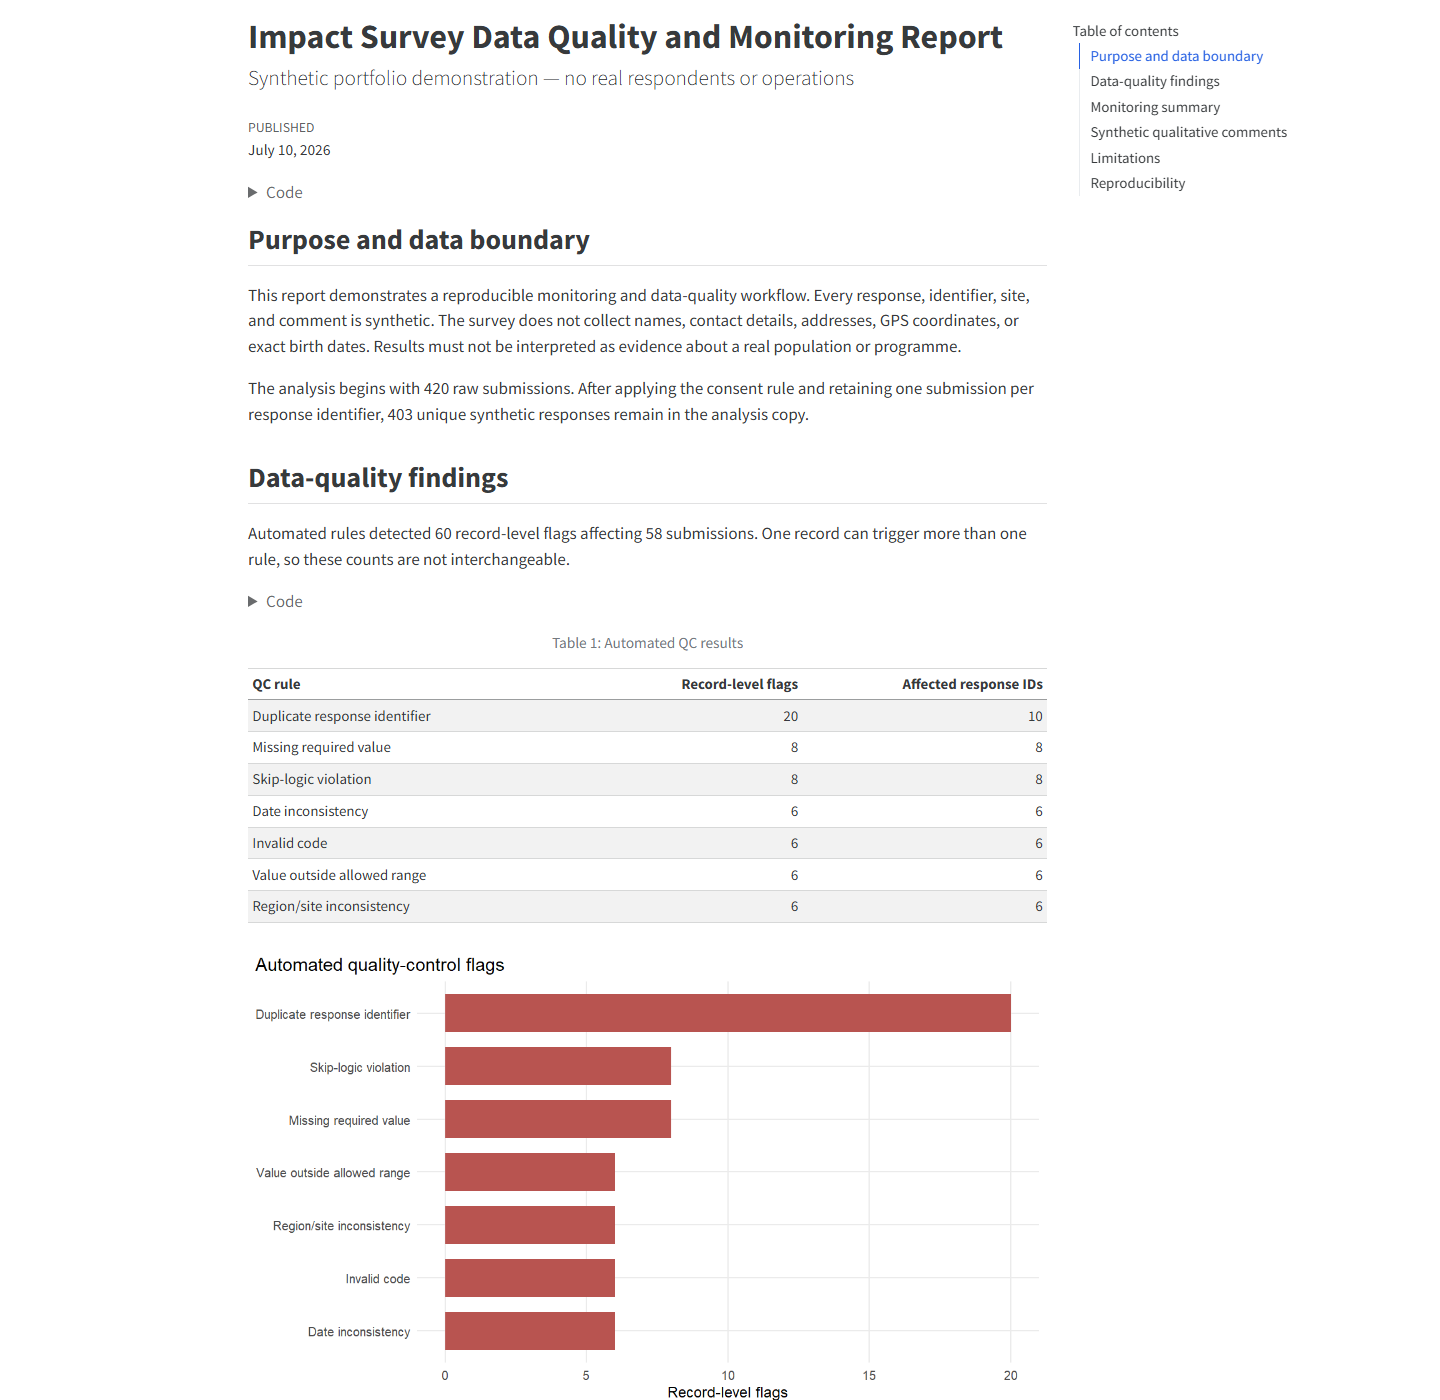
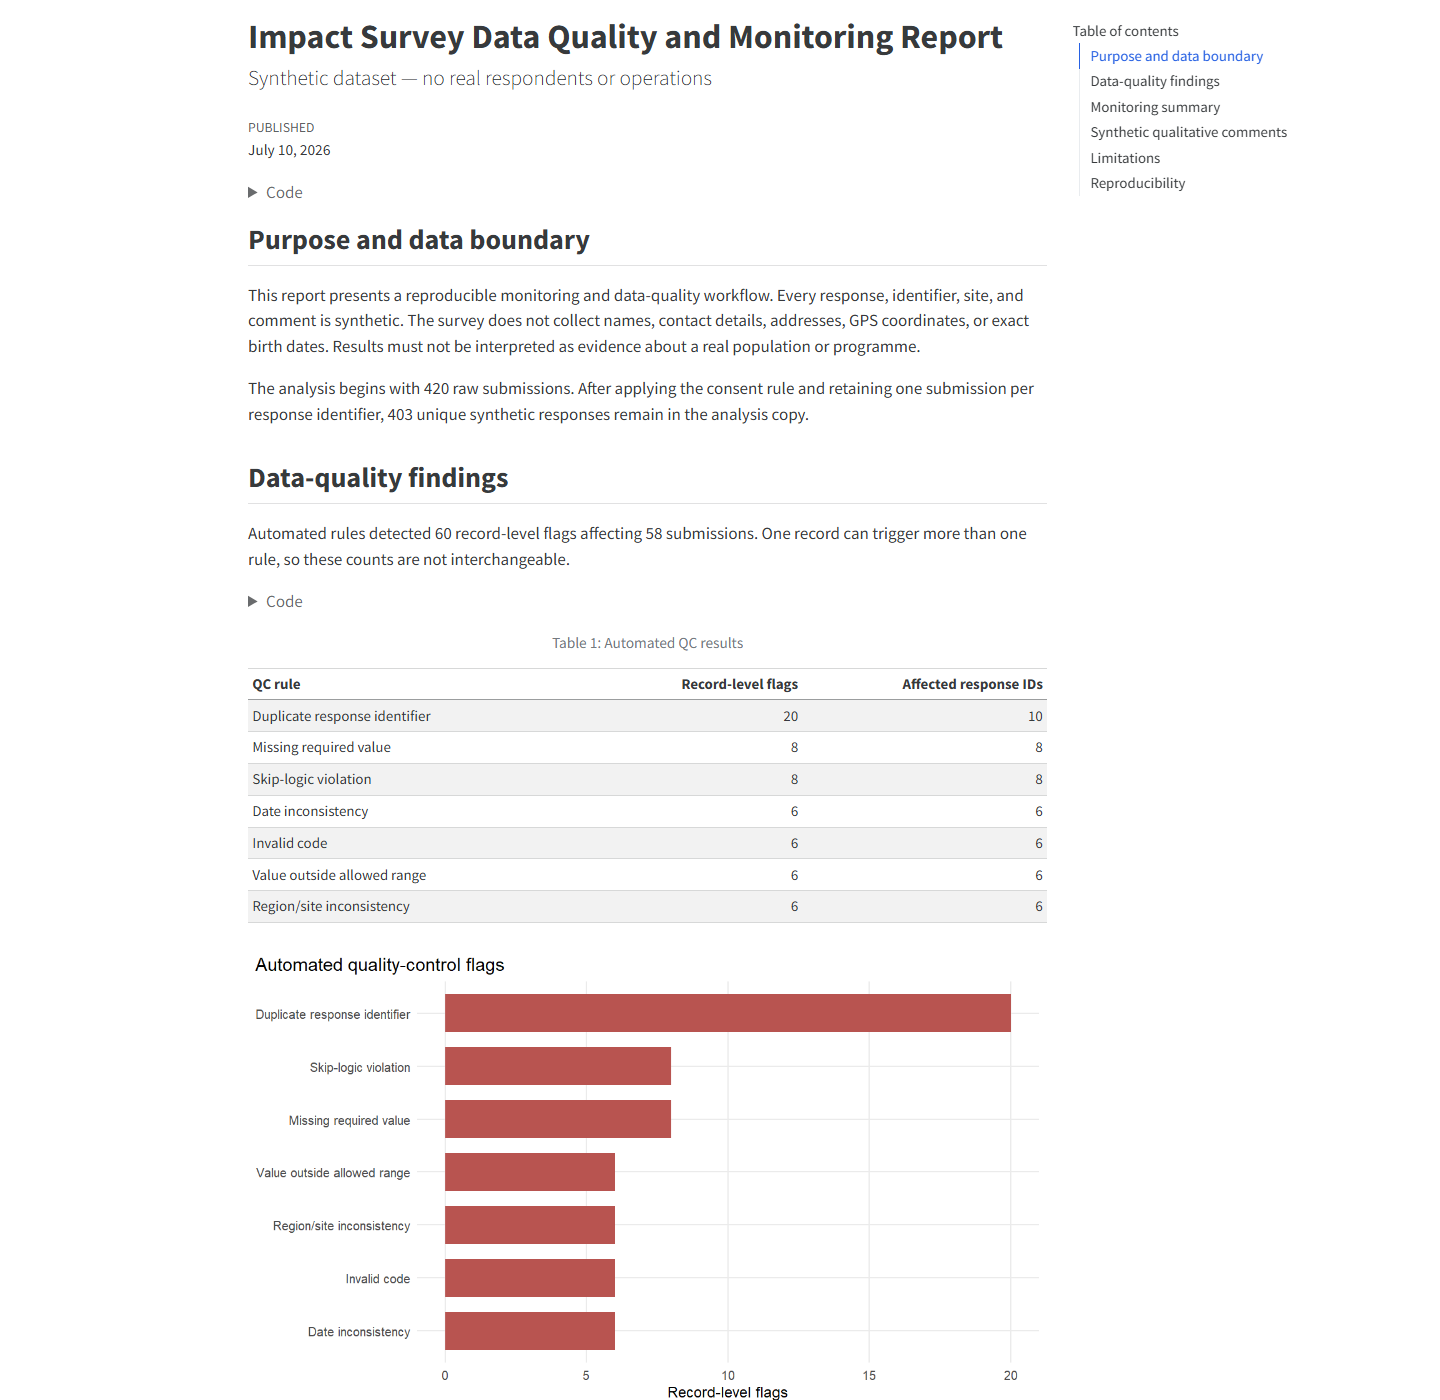
Complete the final wording and artifact checks

Changed region(s): [[0.1875, 0.1843, 0.7188, 0.2764], [0.25, 0.0307, 0.5, 0.0614], [0.5312, 0.0307, 0.5938, 0.0614]]

diff --git a/reports/impact_survey_report.html b/reports/impact_survey_report.html
@@ -2222,7 +2222,7 @@ vertical-align: -.125em;
 <header id="title-block-header" class="quarto-title-block default">
 <div class="quarto-title">
 <h1 class="title">Impact Survey Data Quality and Monitoring Report</h1>
-<p class="subtitle lead">Synthetic portfolio demonstration — no real respondents or operations</p>
+<p class="subtitle lead">Synthetic dataset — no real respondents or operations</p>
 </div>
 
 
@@ -2288,7 +2288,7 @@ vertical-align: -.125em;
 </div>
 <section id="purpose-and-data-boundary" class="level2">
 <h2 class="anchored" data-anchor-id="purpose-and-data-boundary">Purpose and data boundary</h2>
-<p>This report demonstrates a reproducible monitoring and data-quality workflow. Every response, identifier, site, and comment is synthetic. The survey does not collect names, contact details, addresses, GPS coordinates, or exact birth dates. Results must not be interpreted as evidence about a real population or programme.</p>
+<p>This report presents a reproducible monitoring and data-quality workflow. Every response, identifier, site, and comment is synthetic. The survey does not collect names, contact details, addresses, GPS coordinates, or exact birth dates. Results must not be interpreted as evidence about a real population or programme.</p>
 <p>The analysis begins with 420 raw submissions. After applying the consent rule and retaining one submission per response identifier, 403 unique synthetic responses remain in the analysis copy.</p>
 </section>
 <section id="data-quality-findings" class="level2">
@@ -2633,7 +2633,7 @@ Table 3: Training participation by gender category
 </section>
 <section id="synthetic-qualitative-comments" class="level2">
 <h2 class="anchored" data-anchor-id="synthetic-qualitative-comments">Synthetic qualitative comments</h2>
-<p>The optional comments come from a documented synthetic phrase library. A transparent keyword rule assigns one theme to each comment. This is useful for demonstrating data management and reporting, but it is not a substitute for iterative human coding of real qualitative data.</p>
+<p>The optional comments come from a documented synthetic phrase library. A transparent keyword rule assigns one theme to each comment. This supports an inspectable data-management and reporting workflow, but it is not a substitute for iterative human coding of real qualitative data.</p>
 <div class="cell">
 <details class="code-fold">
 <summary>Code</summary>
@@ -2758,7 +2758,7 @@ Table 5: One synthetic example per assigned theme
 <ul>
 <li>The data-generating assumptions determine every apparent pattern.</li>
 <li>Deliberate errors are more structured than errors in most live systems.</li>
-<li>Duplicate handling keeps the first submission identifier for demonstration; a real project would confirm the resolution with the data owner.</li>
+<li>Duplicate handling keeps the first submission identifier under a documented deterministic rule; a live project would confirm the resolution with the data owner.</li>
 <li>Invalid and out-of-range values are set to missing only in the analysis copy.</li>
 <li>Theme coding is based on a small synthetic phrase library and is not suitable for inference.</li>
 <li>Excel and KoboToolbox have separate manual verification requirements and are not validated by this report.</li>

diff --git a/scripts/build_excel_template.py b/scripts/build_excel_template.py
@@ -1,9 +1,8 @@
 """Build the reproducible Excel monitoring template.
 
-The workbook is a portfolio artefact, not a claim that Excel has been tested:
-this script only writes deterministic ``.xlsx`` bytes. The interactive Power
-Query, pivot, and VBA steps are performed and verified by a person, following
-``excel/README.md``.
+This script writes deterministic ``.xlsx`` bytes. Interactive Power Query,
+pivot, and VBA checks are documented separately in ``excel/README.md`` and the
+Excel verification log.
 
 Design:
 
@@ -191,8 +190,8 @@ def build_start_here(workbook: Workbook) -> None:
          "a timestamped QC export into excel/exports/."),
         ("Parity", "The seven QC flags reproduce the R pipeline rules. See the "
          "QC_Rules sheet for the mapping."),
-        ("Honesty", "This file is not marked 'tested' until a person completes the "
-         "checkpoint in docs/verification/excel_test_log.md."),
+        ("Verification", "Build and application-test results are recorded in "
+         "docs/verification/excel_test_log.md."),
     ]
     row = 3
     for heading, body in lines:
@@ -224,7 +223,7 @@ def build_config(workbook: Workbook) -> None:
     params = [
         ("RawDataPath", "Raw data path",
          "data/raw/survey_responses_synthetic.csv",
-         "Set to the full path on your machine before loading the query."),
+         "Set to an absolute path before loading the query."),
         ("ExpectedRowCount", "Expected row count", N_RESPONSES,
          "Power Query and pivots should report this many rows."),
         ("SurveyStart", "Survey start", survey_start, "Earliest valid interview date."),

diff --git a/scripts/build_xlsform.py b/scripts/build_xlsform.py
@@ -31,13 +31,13 @@ SURVEY_HEADERS = [
 ]
 
 SURVEY_ROWS = [
-    ["note", "synthetic_notice", DATASET_LABEL, "Portfolio demonstration only", "", "", "", "", "", ""],
+    ["note", "synthetic_notice", DATASET_LABEL, "Synthetic dataset only; do not enter real personal information", "", "", "", "", "", ""],
     ["start", "start", "", "", "", "", "", "", "", ""],
     ["end", "end", "", "", "", "", "", "", "", ""],
     ["deviceid", "deviceid", "", "", "", "", "", "", "", ""],
     ["calculate", "synthetic_data", "", "", "", "", "", "", "'yes'", ""],
     ["calculate", "survey_version", "", "", "", "", "", "", f"'{SURVEY_VERSION}'", ""],
-    ["select_one yes_no", "consent", "Do you agree to continue with this fictional practice survey?", "Do not enter any real personal information.", "yes", "", "", "", "", ""],
+    ["select_one yes_no", "consent", "Do you agree to continue with this synthetic survey?", "Do not enter any real personal information.", "yes", "", "", "", "", ""],
     ["note", "no_consent_note", "Thank you. The survey ends here.", "", "", "${consent} = 'no'", "", "", "", ""],
     ["begin_group", "monitoring", "Monitoring questions", "", "", "${consent} = 'yes'", "", "", "", "field-list"],
     ["select_one survey_round", "survey_round", "Survey round", "", "yes", "", "", "", "", ""],
@@ -106,7 +106,7 @@ for choice_row in CHOICE_ROWS:
 
 SETTINGS_HEADERS = ["form_title", "form_id", "version", "instance_name", "default_language"]
 SETTINGS_ROWS = [[
-    "Impact Survey Data Quality Toolkit - Synthetic Practice Survey",
+    "Impact Survey Data Quality Toolkit - Synthetic Training Follow-up Survey",
     "impact_survey_synthetic",
     SURVEY_VERSION,
     "concat('Synthetic survey - ', ${interview_date})",

diff --git a/excel/power_query/SurveyRaw.m b/excel/power_query/SurveyRaw.m
@@ -1,6 +1,6 @@
 // SurveyRaw — production import of the synthetic raw extract.
 //
-// Portfolio artefact using synthetic data only. This query reads the CSV path
+// Synthetic data only. This query reads the CSV path
 // from the workbook's RawDataPath named cell (set it on the Config sheet),
 // promotes headers, applies explicit types, trims code values, and joins
 // human-readable labels. The label maps below match the Lookups sheet exactly.

diff --git a/scripts/generate_synthetic_data.py b/scripts/generate_synthetic_data.py
@@ -1,4 +1,4 @@
-"""Generate the portfolio's reproducible synthetic survey data.
+"""Generate reproducible synthetic survey data for the toolkit.
 
 Usage from the repository root:
     python scripts/generate_synthetic_data.py

diff --git a/docs/data_quality_procedure.md b/docs/data_quality_procedure.md
@@ -2,10 +2,9 @@
 
 ## Purpose
 
-This procedure describes how a monitoring-data assistant would receive,
-validate, review, correct, and publish a survey extract. The portfolio data is
-synthetic, but the controls are designed to be transferable to a small real
-project.
+This procedure covers receipt, validation, review, correction, and publication
+of a survey extract. The dataset is synthetic; the controls are structured so
+they can be adapted to other small data workflows.
 
 ## Principles
 
@@ -15,8 +14,8 @@ project.
 3. Keep automated detection separate from human resolution.
 4. Record the rule, affected record, decision, and action.
 5. Reconcile row counts and key indicators after every update.
-6. Treat free text as potentially sensitive in a real project even though this
-   portfolio contains only synthetic phrases.
+6. Treat free text as potentially sensitive in a live project. This dataset
+   contains synthetic phrases only.
 
 ## Workflow
 
@@ -38,7 +37,7 @@ Rscript tests/testthat.R
 
 The validation module checks:
 
-| Rule | Portfolio implementation | Typical response |
+| Rule | Toolkit implementation | Typical response |
 |---|---|---|
 | Missing required | Core fields plus conditional training/follow-up fields | Request source confirmation or exclude from the relevant denominator |
 | Duplicate identifier | Flags every copy of a repeated response ID | Compare submissions and retain only after documented review |
@@ -51,9 +50,9 @@ The validation module checks:
 ### 3. Triage the issue log
 
 Use `data/processed/qc_issues_synthetic.csv` as the working issue list. In a
-real workflow, assign an owner, priority, due date, and resolution note. The
-portfolio keeps `status = Open` because no real data owner exists to confirm a
-correction.
+live workflow, assign an owner, priority, due date, and resolution note. Here,
+`status` remains `Open` because the synthetic issues have no source owner who
+can confirm a correction.
 
 Suggested priorities:
 
@@ -83,4 +82,3 @@ Confirm:
 Only publish a processed dataset or report after automated tests pass and the
 manual Excel/Kobo checks relevant to the release are recorded. Tag the Git
 commit or record its hash in the release note.
-

diff --git a/README.md b/README.md
@@ -85,8 +85,8 @@ the original evidence intact and makes every reported result reproducible.
 
 ## Visual evidence
 
-The images below were captured from the tested local artifacts, not created as
-mock-ups. See [screenshot provenance](docs/screenshots).
+The images below were captured directly from the tested local artifacts. See
+[screenshot provenance](docs/screenshots).
 
 <table>
   <tr>
@@ -159,7 +159,8 @@ generalisable qualitative research.
 
 ## Verification
 
-I only marked a component complete after running it and recording the result.
+Each verification result is tied to the command or application check that
+produced it.
 
 | Check | Verified result |
 |---|---|
@@ -259,8 +260,8 @@ docs/              procedures, diagrams, verification logs, screenshots
 
 - **Immutable raw data:** I preserve the received evidence and make every
   downstream change traceable.
-- **Injected-issue truth file:** the tests can prove that known problems were
-  detected instead of merely producing plausible-looking counts.
+- **Injected-issue truth file:** tests compare detected problems with known
+  injected cases instead of relying on plausible-looking counts.
 - **Separate validated and analysis datasets:** detecting a problem and deciding
   how to treat it analytically are different decisions, so I keep both visible.
 - **QC in both R and Excel:** R provides reproducible, dataset-wide validation;
@@ -272,12 +273,12 @@ docs/              procedures, diagrams, verification logs, screenshots
 ## Scope and limitations
 
 - All people, sites, responses, comments, and apparent findings are synthetic.
-- KoboToolbox was tested in preview; no live deployment or field collection is
-  claimed.
+- KoboToolbox testing covered form upload and preview logic; the project does
+  not include a live deployment or field collection.
 - The public `.xlsm` retains verified cached outputs but uses a sanitized
   `RawDataPath` placeholder that must be configured locally before refresh.
-- Excel pivots are backed by the loaded worksheet table; no Excel Data Model or
-  slicers are claimed.
+- Excel pivots are backed by the loaded worksheet table; the workbook does not
+  use an Excel Data Model or slicers.
 - Synthetic qualitative comments come from a small phrase library, so the theme
   results show how the method works rather than supporting real inference.
 - For duplicate resolution in this dataset, I keep the first submission ID in

diff --git a/docs/verification/automated_test_log.md b/docs/verification/automated_test_log.md
@@ -61,3 +61,16 @@ fc928a45b1d2ca1a1fb55e664efe84fd880e84509db3bee3963849c654be9f4c
 
 The expanded Python suite then passed all nine tests, and pyxform 4.5.0 again
 completed structural validation with no reported warnings.
+
+## 11 July 2026 — Publication regression check
+
+The XLSForm and Excel template were rebuilt after a wording review. The final
+Python suite passed all 18 tests, and pyxform structural validation completed
+without warnings. The current XLSForm SHA-256 is:
+
+```text
[1 lines of base64/hex data omitted]
+```
+
+The same XLSForm was then rechecked in KoboToolbox Preview; results are recorded
+in `kobo_test_log.md`.

diff --git a/docs/verification/excel_test_log.md b/docs/verification/excel_test_log.md
@@ -1,9 +1,9 @@
 # Excel verification log
 
-Status: **PASSED** on 10 July 2026 and publication-audited on 11 July 2026. The workbook was assembled and exercised in
-real Excel through COM automation on this Windows session. Values below are
-observed, not planned. Authentic evidence images captured from the saved
-workbook are under `docs/screenshots/`.
+Status: **PASSED** on 10 July 2026 and publication-audited on 11 July 2026. The
+workbook was assembled and exercised in desktop Excel through COM automation.
+The recorded results and evidence images under `docs/screenshots/` come from
+the saved workbook.
 
 ## Environment
 
@@ -36,7 +36,7 @@ workbook are under `docs/screenshots/`.
 | 2 | `RawDataPath` set on Config | **Pass** |
 | 3 | Blank Query created | **Pass** |
 | 4 | `SurveyRaw.m` loaded; query named `SurveyRaw` | **Pass** — 31 output columns (27 raw + 4 labels) |
-| 5 | Close & Load to worksheet table; row count 420 | **Pass** — 420 rows; no Data Model is claimed |
+| 5 | Close & Load to worksheet table; row count 420 | **Pass** — 420 rows loaded to `SurveyTbl` |
 | 6 | Pivots built | **Pass** — Region×Round and Satisfaction pivots created; slicers are not included |
 | 7 | VBA module imported via Alt+F11 | **Pass** — module `modQCExport`, `Sub RefreshAndExportQC` |
 | 8 | Saved as `impact_survey_monitoring.xlsm` | **Pass** — sanitized verified artifact committed with cached outputs |
@@ -107,7 +107,8 @@ records_with_any_flag,8
   metadata. Config!B3 is a setup placeholder that reviewers replace locally.
 - Authentic workbook and report screenshots are documented in
   `docs/screenshots/README.md`.
-- Slicers and an Excel Data Model are intentionally not claimed.
+- The workbook uses worksheet-backed pivots and does not include slicers or an
+  Excel Data Model.
 
 ## Sign-off
 

diff --git a/survey/README.md b/survey/README.md
@@ -1,13 +1,11 @@
-# Synthetic practice survey
+# Synthetic survey instrument
 
 `impact_survey_xlsform.xlsx` is generated from the diffable CSV sheets in
 `survey/source/` by `scripts/build_xlsform.py`.
 
 The form contains no name, phone, email, address, birth-date, or GPS question.
-It is designed for portfolio demonstration and must not be represented as a
-real deployment.
+It exercises survey logic and data-quality controls using synthetic entries
+only; it is not a live deployment.
 
-Local structural validation and manual KoboToolbox verification are recorded
-separately. A successful local build does not prove that the form has been
-tested in KoboToolbox.
-
+Structural validation and KoboToolbox preview results are recorded separately
+under `docs/verification/`.

diff --git a/docs/verification/kobo_test_log.md b/docs/verification/kobo_test_log.md
@@ -1,6 +1,6 @@
 # KoboToolbox verification log
 
-Status: **PASSED — MANUALLY VERIFIED ON 10 JULY 2026**
+Status: **PASSED — MANUALLY RECHECKED ON 11 JULY 2026**
 
 The checks below were performed in KoboToolbox Preview using synthetic entries
 only.
@@ -8,11 +8,11 @@ only.
 ## Environment
 
 - Method: Manual verification in KoboToolbox Preview
-- Date: 10 July 2026
+- Date: 11 July 2026
 - Kobo server/region: Not recorded
 - Browser: Not recorded
 - XLSForm SHA-256:
[2 lines of base64/hex data omitted]
 
 ## Test procedure
 
@@ -46,6 +46,5 @@ only.
 
 ## Issues and corrective actions
 
-No issue was reported during the manual Kobo preview. No deployment or live
-data collection is claimed. Browser/server details and screenshots were not
-recorded, so they are not claimed.
+No issues occurred during the manual Kobo preview. Testing was limited to form
+upload and preview; there was no live deployment or field collection.

diff --git a/docs/synthetic_data_design.md b/docs/synthetic_data_design.md
@@ -3,8 +3,9 @@
 ## Purpose and boundaries
 
 The dataset is a fictional community-services and training follow-up survey
-created solely to demonstrate monitoring-data practices. It is not based on a
-real organisation, population, respondent, site, or programme.
+created to exercise collection, validation, analysis, and reporting workflows.
+It is not based on a real organisation, population, respondent, site, or
+programme.
 
 The form intentionally avoids direct identifiers: it has no name, phone,
 email, address, GPS coordinate, exact birth date, or free-text contact field.
@@ -42,6 +43,5 @@ not equal the number of unique affected records.
 
 Optional comments are selected from a small, documented synthetic phrase
 library covering positive feedback, timing, access, and requests for more
-content. These comments are suitable for demonstrating transparent theme
-coding, not statistical inference or natural-language model performance.
-
+content. They support transparent theme-coding checks, not statistical
+inference or comprehensive qualitative analysis.